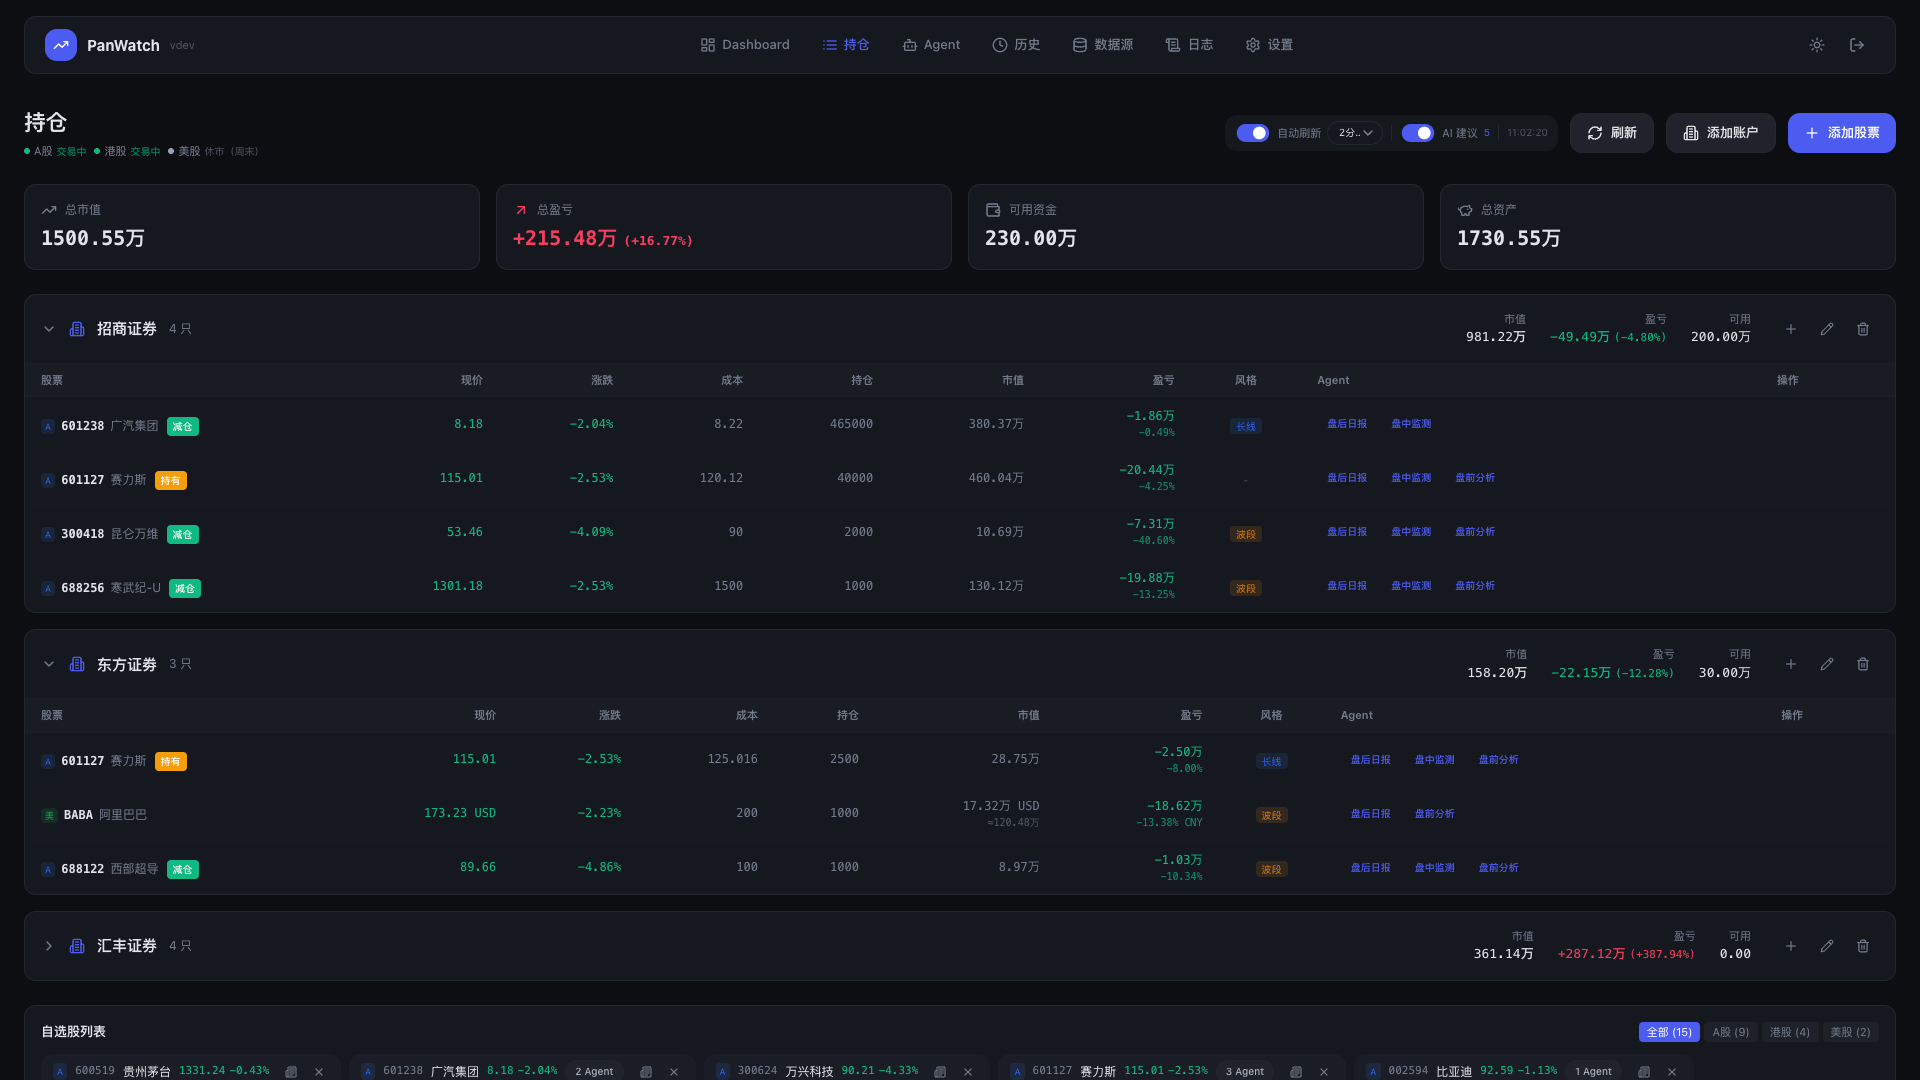
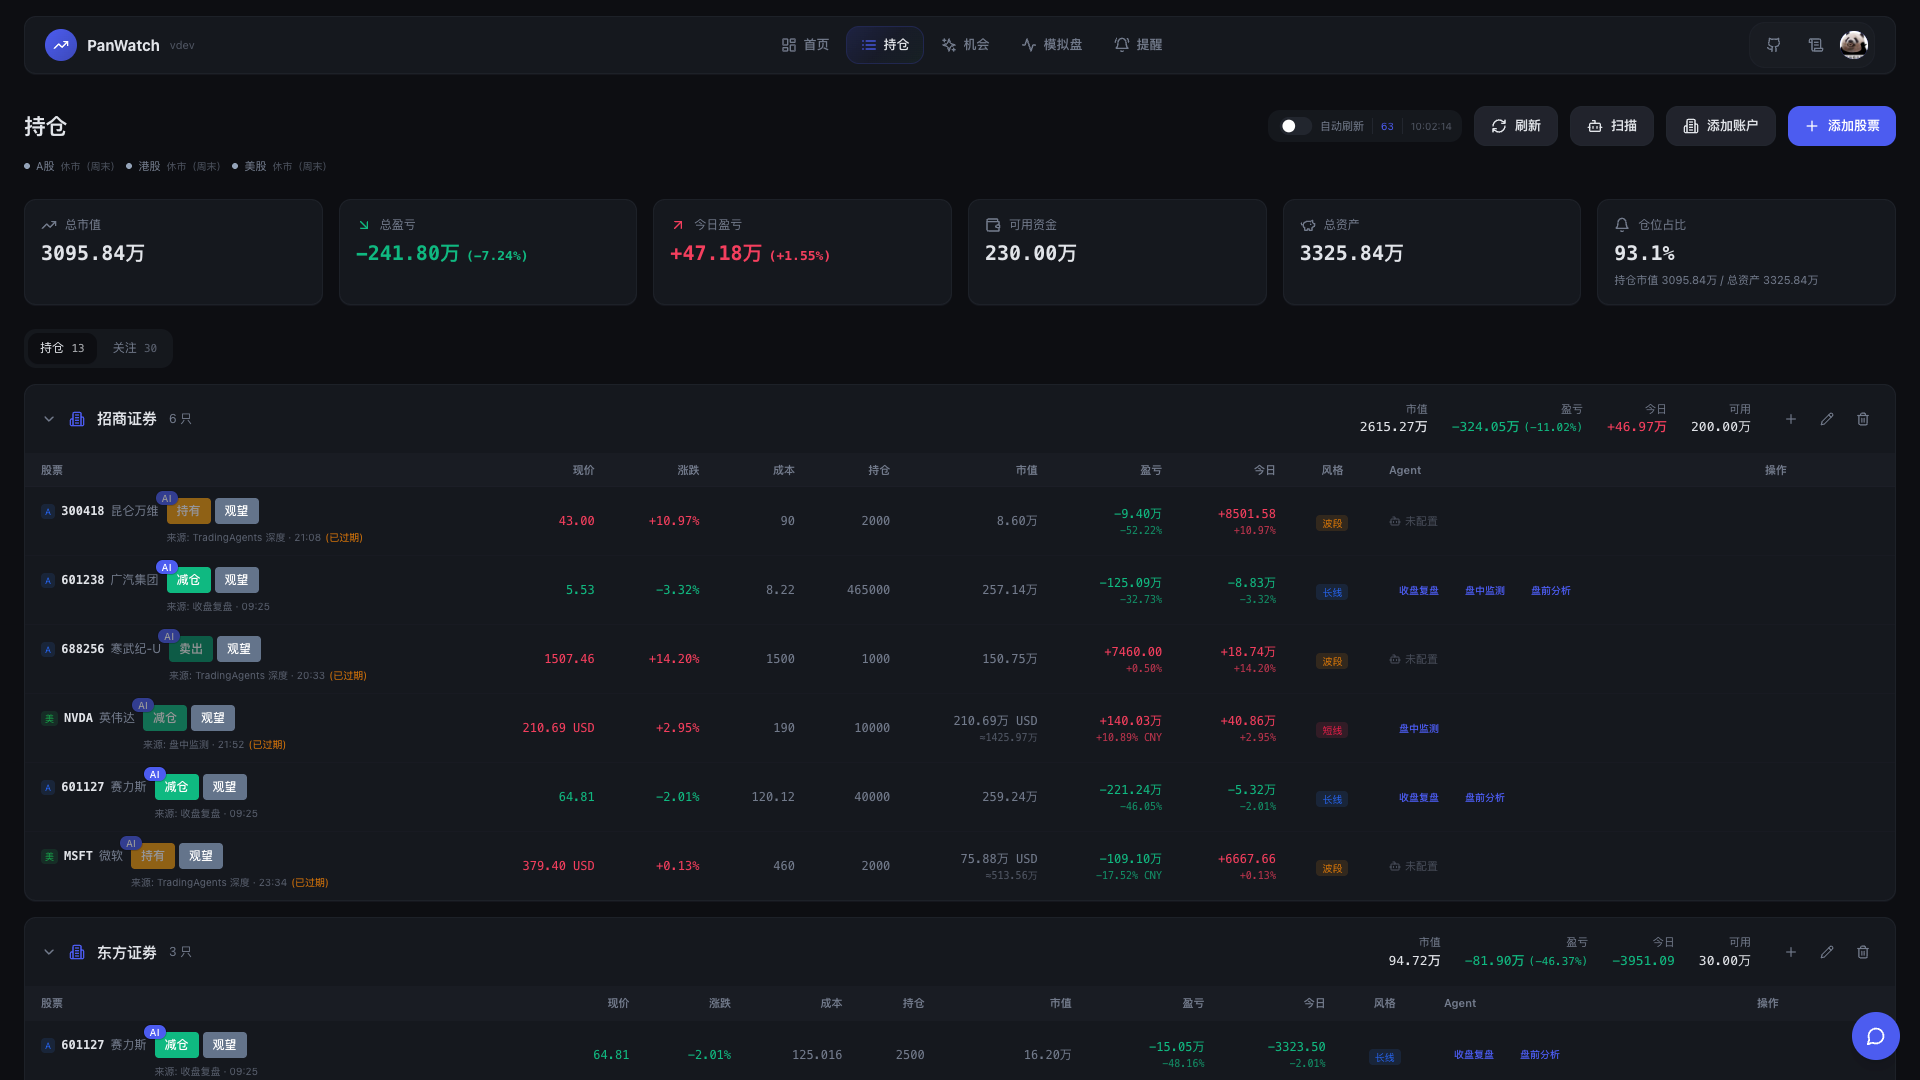
docs(readme): 传播向改造(暗黑统一)—— TA演示GIF上第一屏 + 功能墙 + PWA (#65)
README 暗黑统一重做:TA 深度分析演示 GIF 上第一屏 + 6 功能墙 + PWA 徽章;移除失效链接。

Pull request: docs(readme): 传播向改造(暗黑统一)—— TA 演示 GIF 上第一屏 + 功能墙 + PWA
把 README 当传播武器重做(暗黑统一):

- **TradingAgents 深度分析演示 GIF 上第一屏**(护城河,show-don't-tell;不裁剪、16M/36s→5.8M/12s)
- **6 张暗黑功能图**:持仓多账户 / 机会页 AI 评分选股 / 模拟盘净值+绩效 / 个股深度详情 / 技术指标共振 / 价格提醒
- 移动端暗黑(持仓+详情)+ **PWA 徽章**(已确认 manifest+sw 真支持)+ 安装说明
- 移除失效链接 `.docs/tradingagents/USER_GUIDE.md`

> README 是视觉的,请在本 PR 的 Files/Conversation 里看 GitHub 实际渲染效果。

diff --git a/README.md b/README.md
@@ -6,17 +6,28 @@
 [![Docker Pulls](https://img.shields.io/docker/pulls/sunxiao0721/panwatch?logo=docker&label=docker%20pulls&color=2496ED)](https://hub.docker.com/r/sunxiao0721/panwatch)
 [![License: MIT](https://img.shields.io/badge/License-MIT-blue.svg)](LICENSE)
 [![Last commit](https://img.shields.io/github/last-commit/TNT-Likely/PanWatch)](https://github.com/TNT-Likely/PanWatch/commits/main)
+[![PWA](https://img.shields.io/badge/PWA-installable-5A0FC8?logo=pwa&logoColor=white)](https://github.com/TNT-Likely/PanWatch)
 
-![Dashboard](docs/screenshots/dashboard.png)
+![盯盘侠 PanWatch · TradingAgents 深度分析演示](docs/screenshots/tradingagents-demo.gif)
 
-| 持仓管理 | AI 建议 |
+> 🧠 **持仓页点一下 → TradingAgents 9-Agent 投研团队接力分析 → 看多看空辩论 → 风控审查 → PM 决策书,3-5 分钟一条完整推理链,结论直推到你的 IM。**
+
+## 📸 功能一览
+
+| 持仓 · 多账户汇总 | 机会页 · AI 评分选股 |
 |:---:|:---:|
-| ![Portfolio](./docs/screenshots/portfolio.png) | ![Suggestion](./docs/screenshots/suggestion.png) |
+| ![持仓管理](./docs/screenshots/portfolio.png) | ![机会页 AI 评分](./docs/screenshots/opportunities.png) |
+| **模拟盘 · 净值曲线 + 绩效** | **个股深度详情** |
+| ![模拟盘](./docs/screenshots/papertrading.png) | ![个股详情](./docs/screenshots/stock-detail.png) |
+| **技术指标共振 · 一眼 MACD/RSI/KDJ** | **价格提醒 · 条件组合触发** |
+| ![技术指标](./docs/screenshots/technicals.png) | ![价格提醒](./docs/screenshots/alerts.png) |
 
 <details>
 <summary>移动端截图</summary>
 
-<img src="./docs/screenshots/mobile.png" width="375" />
+<img src="./docs/screenshots/mobile.png" width="300" /> <img src="./docs/screenshots/mobile-detail.png" width="300" />
+
+> 📱 支持 PWA，移动端可「添加到主屏幕」当原生 App 用。
 
 </details>
 
@@ -29,7 +40,6 @@
 - **4 类分析师**（技术 / 情绪 / 新闻 / 基本面） → **看多看空辩论** → **风控审查** → **PM 整合决策**
 - 3-5 分钟输出完整推理链，结论同步推送到 Telegram / 微信 / 钉钉
 - 默认 deepseek-chat，单次 ~$0.05，月度预算可控
-- 配置指南：[`.docs/tradingagents/USER_GUIDE.md`](.docs/tradingagents/USER_GUIDE.md)
 
 ## 为什么选择盯盘侠？
 